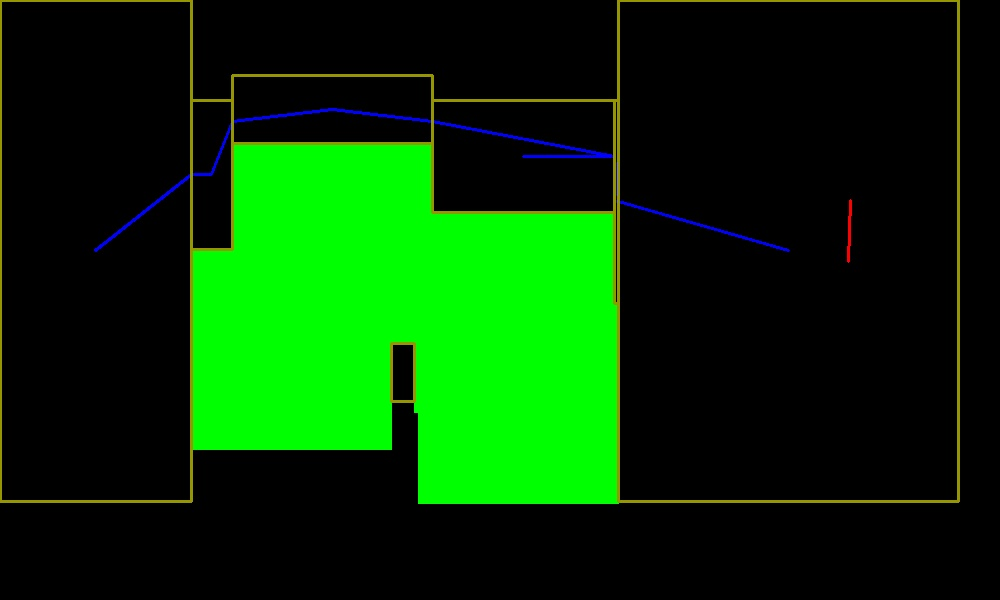
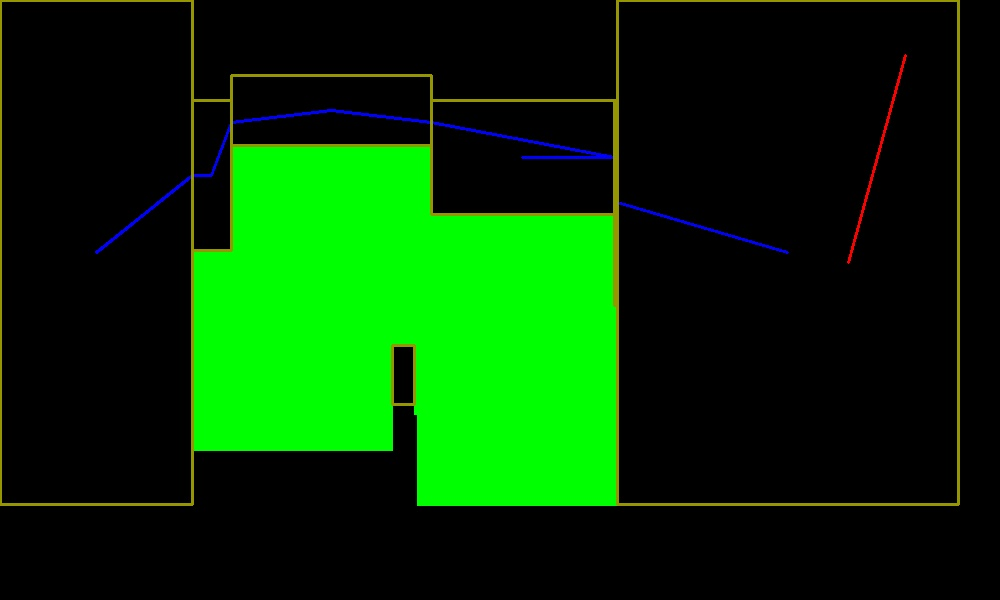
angles tweaking

diff --git a/Client/BaseStation/BaseClientSocketScript.py b/Client/BaseStation/BaseClientSocketScript.py
@@ -20,6 +20,7 @@ with open(configPath) as json_data_file:
 socketIO = SocketIO(config['url'], int(config['port']))
 
 def verifyIfMoving(path, nextSignal):
+    print("verify if moving")
     pixelRangeToSendNextCoordinates = 8
     for nodeBotIsGoingTo in range(0, len(path)):
         xPositionOfNodeThatBotIsGoingTo = path[nodeBotIsGoingTo].positionX
@@ -43,9 +44,11 @@ def verifyIfMoving(path, nextSignal):
         time.sleep(5)
 
         if(nodeBotIsGoingTo+1 == len(path)):
+            print("emitting" + nextSignal)
             socketIO.emit(nextSignal)
 
         else:
+            print("sending bot to next coordinates")
             botInfo = dispatcher.getCurrentWorldInformation()
             jsonToSend = {"positionFROMx" : botInfo["robotPosition"][0],
                           "positionFROMy" : botInfo["robotPosition"][1],
@@ -56,10 +59,8 @@ def verifyIfMoving(path, nextSignal):
 
 def sendNextCoordinates():
     path, nextSignal = dispatcher.handleCurrentSequencerState()
-    socketIO.emit(nextSignal)
-    #
-    # if(path != None and nextSignal != None):
-    #     Thread(target=verifyIfMoving(path, nextSignal)).start()
+    if(path != None and nextSignal != None):
+        Thread(target=verifyIfMoving(path, nextSignal)).start()
 
 
 def startRound():

diff --git a/Client/BaseStation/Logic/BaseStationDispatcher.py b/Client/BaseStation/Logic/BaseStationDispatcher.py
@@ -50,7 +50,7 @@ class BaseStationDispatcher():
         self.sequencer.setState(SendingBotToTargetState())
 
     def startFromTreasure(self):
-        self.sequencer.setState(DetectTreasureState())
+        self.sequencer.setState(SendingBotToTreasureState())
 
     def getCurrentMap(self):
         map = self.world.getCurrentMap()
@@ -71,11 +71,9 @@ class BaseStationDispatcher():
     def setTimer(self, function,seconds):
         if self.timer != None:
             self.timer.cancel()
-            print("kill")
         def func_wrapper():
             self.setTimer(function, seconds)
             function()
-        print current_thread()
         self.timer = threading.Timer(seconds, func_wrapper)
         self.timer.start()
         return self.timer

diff --git a/Client/BaseStation/WorldVision/Robot.py b/Client/BaseStation/WorldVision/Robot.py
@@ -37,7 +37,7 @@ class Robot():
                     if(angle > 180):
                         angle = 180 + (angle - 180)
 
-            self.orientation = angle
+            self.orientation = (angle + 270)%360
         else:
             self.orientation = 0
 
